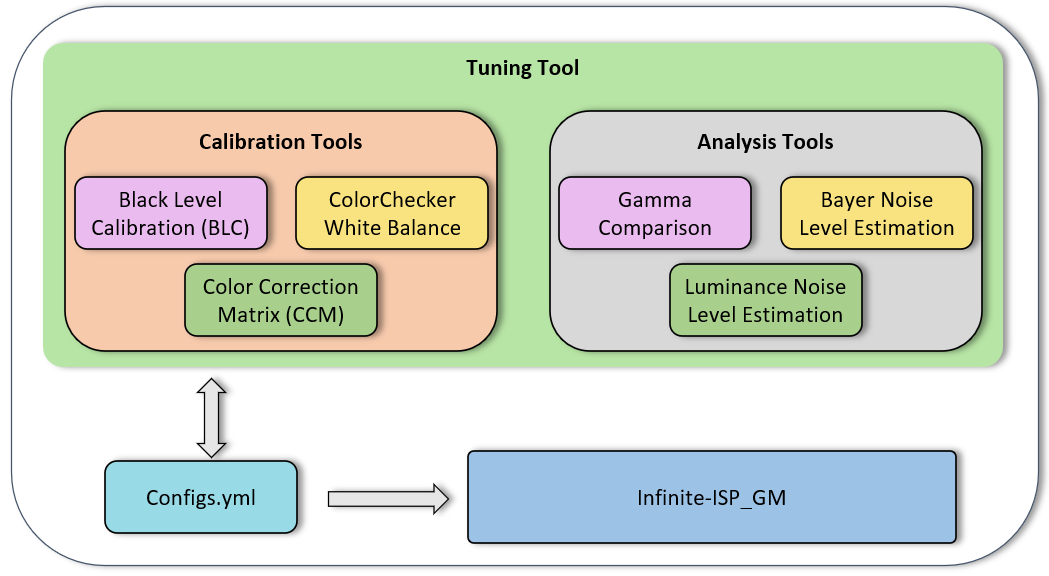
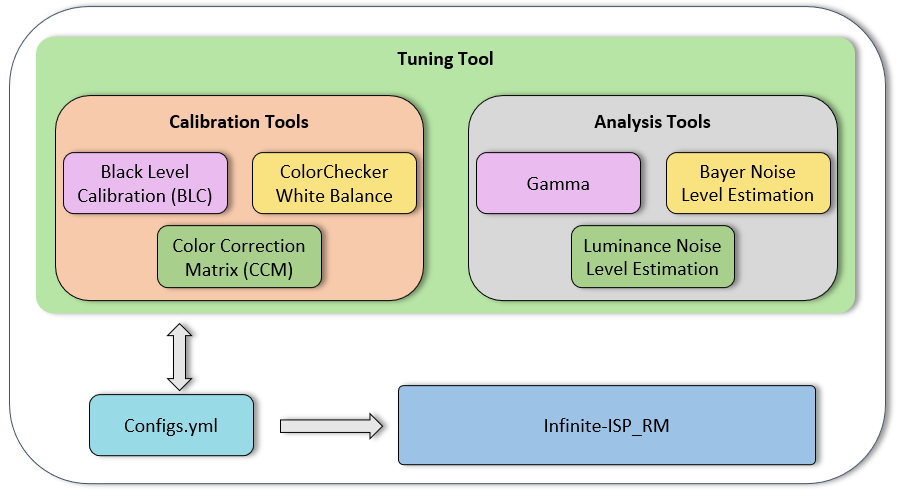
Updated readme. (#2)
* Updated readme.

* Updated readme (added contact info).

* Updated links of the images.

* Update README.md

* update block diagram

---------

diff --git a/README.md b/README.md
@@ -1,8 +1,18 @@
+# Infinite-ISP
+Infinite-ISP is a one stop solution for all your ISP development needs - from algorithms to an FPGA prototype and associated firmware, tools, etc. Its primary goal is to offer a unified platform that empowers ISP developers to accelerate ISP innovation. It includes a complete collection of camera pipeline modules written in Python, an FPGA bit-stream & the associated firmware for the implementation of the pipeline on the Kria KV260 development board and lastly a stand-alone Python based Tuning tool application for the pipeline.  The main components of the Infinite-ISP project are listed below:
+
+| Repository name        | Description      | 
+| -------------  | ------------- |
+| **[Infinite-ISP_AlgorithmDesign](https://github.com/xx-isp/infinite-isp)**                        | Python based model of the Infinite-ISP pipeline for algorithm development |
+| **[Infinite-ISP_ReferenceModel](https://github.com/10xEngineersTech/Infinite-ISP_ReferenceModel)**                         | Python based fixed-point model of the Infinite-ISP pipeline for hardware implementation |
+| **[Infinite-ISP_FPGABitstream](https://github.com/10xEngineersTech/Infinite-ISP_FPGABitstream)**                                      | FPGA bit-stream for the  Kria kV260’s Xilinx® ZU5EV Ultrascale FPGA|
+| **[Infinite-ISP_Firmware](https://github.com/10xEngineersTech/Infinite-ISP_Firmware)**                                      | Firmware for the Kria kV260’s embedded Arm® Cortex®A53 processor|
+| **[Infinite-ISP_Tuning Tool](https://github.com/10xEngineersTech/Infinite-ISP_TuningTool)** :anchor:                             | Collection of calibration and analysis tools for the Infinite-ISP |
 
 # Infinite-ISP Tuning Tool
 ## Overview
 
-Infinite-ISP Tuning Tool is a console-based ISP (image signal processor) tuning application that is specifically designed to tune various modules in the [Infinite-ISP_GM](https://github.com/10xEngineersTech/Infinite-ISP_GoldenModel). Apart from working along with Infinite-ISP pipeline, this tuning tool can be used as a seperate stand-alone application to perform image quality analysis.
+Infinite-ISP Tuning Tool is a console-based ISP (image signal processor) tuning application that is specifically designed to tune various modules in the [Infinite-ISP_ReferenceModel](https://github.com/10xEngineersTech/Infinite-ISP_ReferenceModel). Apart from working along with Infinite-ISP pipeline, this tuning tool can be used as a seperate stand-alone application to perform image quality analysis.
 
 This cross-platform application provides a diverse range of algorithms aimed at calibrating a Bayer RAW image coming directly from an image sensor.
 
@@ -67,7 +77,7 @@ By following the above steps, the tool will start, clear the console and display
 ### Example
 Upon successfully launching the Tuning Tool, its main menu pops up with a list of all available modules.
 
-![](https://github.com/10xEngineersTech/InfiniteISP_TuningTool/blob/qa_improvements_ss/docs/assets/Tuning%20Tool%20Main%20Menu.png)
+![](https://github.com/10xEngineersTech/Infinite-ISP_TuningTool/blob/improvements/docs/assets/Tuning_Tool_Main_Menu.png)
 
 - To run a specific module, simply select the corresponding option from the menu. For instance, to start the Black Level Calibration (BLC) module, choose option 1.
 
@@ -84,8 +94,12 @@ For more comprehensive documentation and to understand how to use the Tuning Too
 ## License
 This project is licensed under Apache 2.0 (see [LICENSE](https://github.com/10xEngineersTech/InfiniteISP_TuningTool/blob/documentation_updates/LICENSE.txt) file).
 
-## Links
-Links to Infinite-ISP and supported repos.
-- [Infinite-ISP](https://github.com/xx-isp/infinite-isp)
 
-- [Infinite-ISP_GM](https://github.com/10xEngineersTech/Infinite-ISP_GoldenModel) 
+## Contact
+For any inquiries or feedback regarding this project, feel free to reach out to us.
+
+
+Website: http://www.10xEngineers.ai
+
+LinkedIn: https://www.linkedin.com/company/10x-engineers/
+ 
